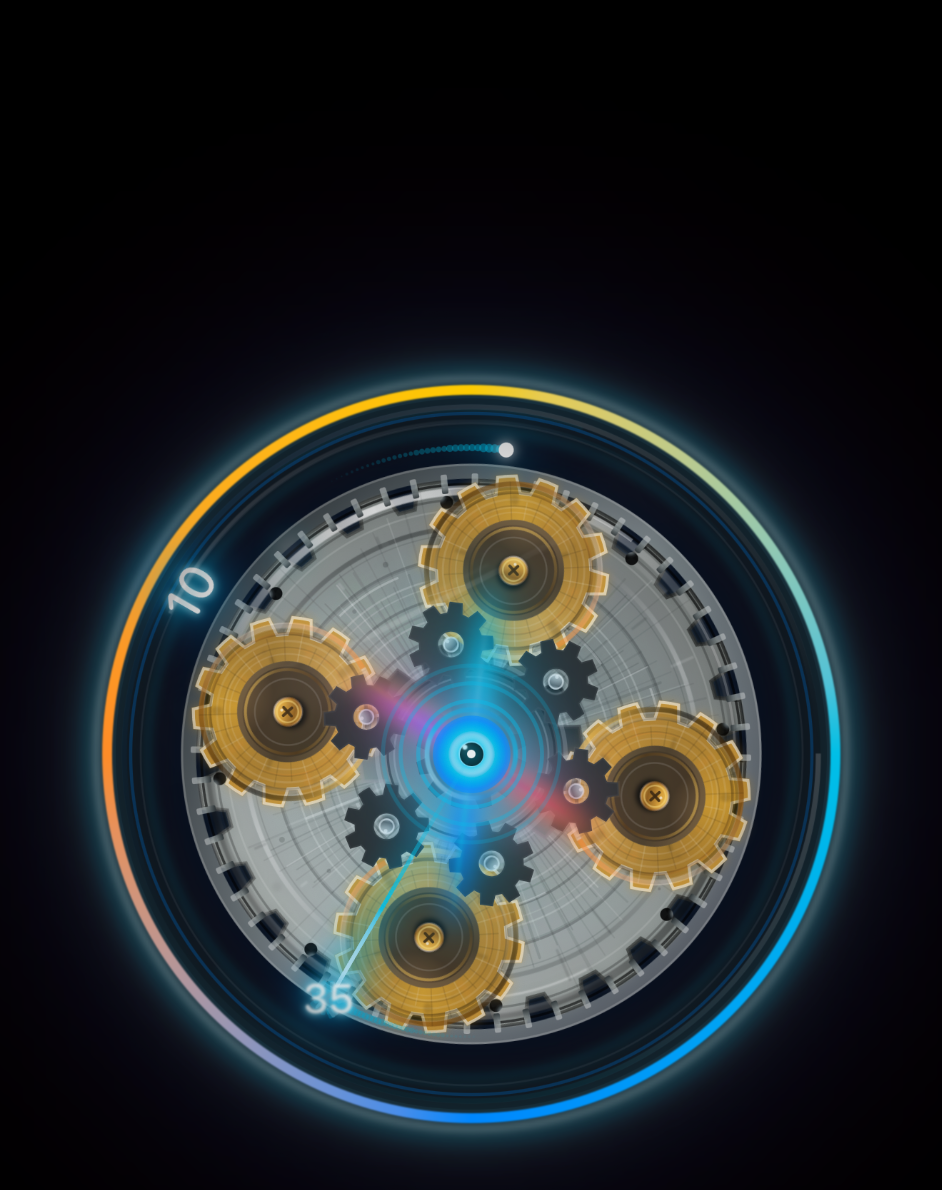
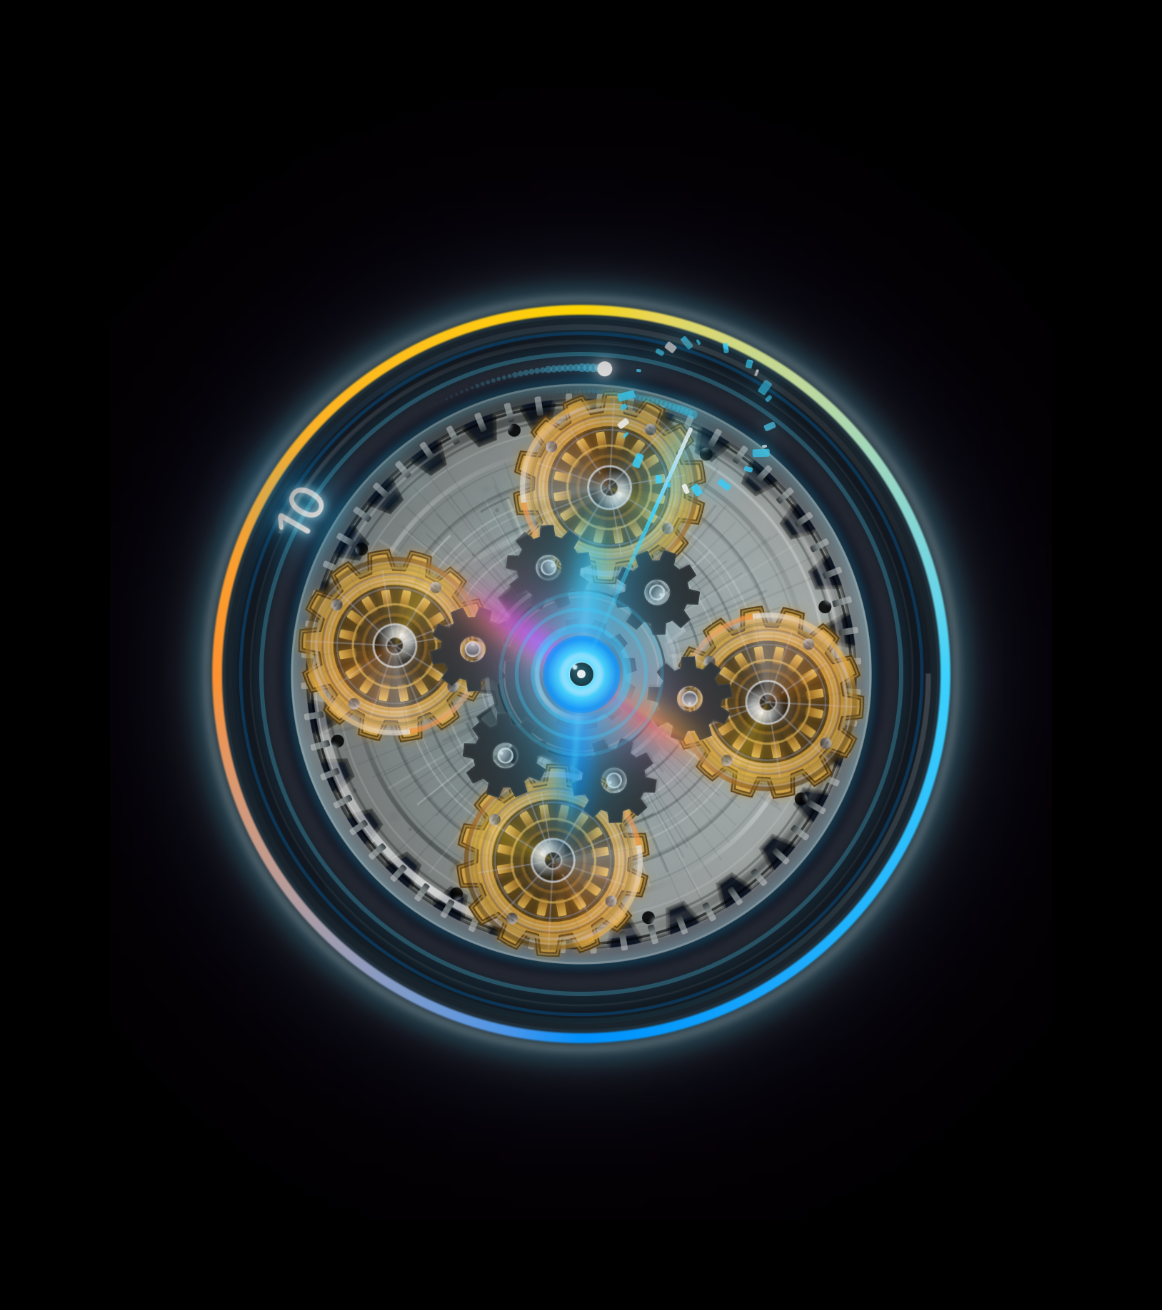
website updated
new imagery

diff --git a/index.html b/index.html
@@ -4,7 +4,7 @@
   <meta charset="utf-8">
   <meta name="viewport" content="width=device-width, initial-scale=1">
   <title>MoodClock — Time Moves the Machine</title>
-  <meta name="description" content="MoodClock is a mechanical interpretation of time. Every minute resolves through motion, pulse, and resonance.">
+  <meta name="description" content="MoodClock is a mechanical interpretation of time. Every minute resolves through motion, pulse, resonance, and a subtle mechanical voice.">
   <style>
     :root{
       --bg:#000;
@@ -31,7 +31,7 @@
       align-items:center;
       justify-content:center;
       text-align:center;
-      padding:64px 0 32px;
+      padding:80px 0 40px;
     }
     .hero-inner{width:100%}
     .eyebrow{
@@ -63,10 +63,23 @@
       font-size:18px;
       line-height:1.55;
     }
+    .hero-frame{
+      width:min(560px,76vw);
+      margin:44px auto 0;
+      border:1px solid var(--hairline);
+      border-radius:30px;
+      background:#050505;
+      padding:18px 22px 34px;
+      overflow:visible;
+      box-sizing:border-box;
+    }
     .hero-image{
       display:block;
-      width:min(760px,92vw);
-      margin:32px auto 0;
+      width:100%;
+      height:auto;
+      object-fit:contain;
+      margin:0 auto;
+      border-radius:0;
       filter:drop-shadow(0 0 24px rgba(0,190,255,.08));
     }
     section{padding:120px 0}
@@ -84,32 +97,37 @@
       font-size:20px;
       line-height:1.5;
     }
+
     .sequence{
       display:grid;
-      grid-template-columns:repeat(3,1fr);
-      gap:18px;
-      margin-top:54px;
+      grid-template-columns:repeat(4,1fr);
+      gap:16px;
+      margin-top:48px;
     }
     .sequence figure{
       margin:0;
       border:1px solid var(--hairline);
       border-radius:28px;
-      overflow:hidden;
+      overflow:visible;
       background:#050505;
     }
-    .sequence img{display:block;width:100%;height:auto}
+    .sequence img{
+      display:block;
+      width:72%;
+      max-width:220px;
+      height:auto;
+      object-fit:contain;
+      margin:18px auto 12px;
+      padding:0;
+      background:#000;
+    }
     .sequence figcaption{
       padding:18px 18px 20px;
       color:var(--muted);
       font-size:14px;
-      line-height:1.55;
       letter-spacing:.02em;
     }
-    .sequence figcaption strong{
-      color:var(--fg);
-      font-size:12px;
-      letter-spacing:.14em;
-    }
+
     .statement{
       text-align:center;
       padding-top:160px;
@@ -124,17 +142,31 @@
       font-weight:650;
     }
     .statement span{color:var(--muted)}
+
     .detail-grid{
       display:grid;
       grid-template-columns:1.1fr .9fr;
       align-items:center;
       gap:70px;
     }
-    .detail-grid img{
+    .detail-image-frame{
       width:100%;
-      display:block;
-      border-radius:30px;
       border:1px solid var(--hairline);
+      border-radius:30px;
+      background:#050505;
+      display:flex;
+      align-items:center;
+      justify-content:center;
+      overflow:visible;
+      box-sizing:border-box;
+      padding:22px;
+    }
+    .detail-image-frame img{
+      display:block;
+      width:100%;
+      height:auto;
+      object-fit:contain;
+      margin:0 auto;
     }
     .cta{
       text-align:center;
@@ -175,9 +207,14 @@
       flex-wrap:wrap;
     }
     .footer-links{display:flex;gap:18px}
+
     @media (max-width:800px){
       section{padding:88px 0}
+      .sequence{grid-template-columns:repeat(2,1fr)}
+    }
+    @media (max-width:520px){
       .sequence{grid-template-columns:1fr}
+      .sequence img{width:72%;max-width:220px;height:auto;margin-bottom:14px}
       .detail-grid{grid-template-columns:1fr;gap:36px}
       .statement{padding-top:110px;padding-bottom:110px}
     }
@@ -191,33 +228,39 @@
       <h1>MOODCLOCK</h1>
       <div class="tagline">Time moves the machine.</div>
       <p class="subcopy">
-        The minute begins at 34. Then the machine takes over.
+        A living mechanical clock where every minute resolves through motion,
+        pulse, weight, and a subtle mechanical voice.
       </p>
-      <img class="hero-image" src="moodclock-before.png" alt="MoodClock mechanical clock face">
+      <div class="hero-frame"><img class="hero-image" src="moodclock-hero.png" alt="MoodClock mechanical clock face"></div>
     </div>
   </header>
 
   <main>
     <section>
       <div class="wrap">
-        <h2 class="section-title">34 becomes 35.</h2>
+        <h2 class="section-title">Every minute has weight.</h2>
         <p class="section-copy">
-          At the turn of the minute, 34 collapses. The mechanism advances.
-          A pulse moves outward. The fragments return and reform as 35.
+          The mechanism does not simply display the next minute. It moves through it.
+          The minute collapses, the machine advances, a pulse moves outward, and the
+          clock settles into its next state.
         </p>
 
         <div class="sequence">
           <figure>
-            <img src="moodclock-fragments.png" alt="34 breaking apart as the minute changes">
-            <figcaption><strong>1 — BREAK APART</strong><br>34 collapses as the minute changes.</figcaption>
+            <img src="moodclock-final-instant.png" alt="MoodClock immediately before the minute transition">
+            <figcaption><strong>Minute 03 — The final instant.</strong></figcaption>
           </figure>
           <figure>
-            <img src="moodclock-return.png" alt="Pulse expanding as minute fragments return">
-            <figcaption><strong>2 — PULSE &amp; RETURN</strong><br>The pulse expands. The fragments return.</figcaption>
+            <img src="moodclock-pulse-travel.png" alt="MoodClock pulse wave traveling outward">
+            <figcaption>The minute breaks. The pulse launches.</figcaption>
           </figure>
           <figure>
-            <img src="moodclock-reform.png" alt="Minute fragments reforming into 35">
-            <figcaption><strong>3 — REFORM</strong><br>The new minute takes shape.</figcaption>
+            <img src="moodclock-reform.png" alt="MoodClock minute fragments in the larger fragmentation state">
+            <figcaption>The fragments spread, then begin to reform.</figcaption>
+          </figure>
+          <figure>
+            <img src="moodclock-settled.png" alt="MoodClock settled at minute 04">
+            <figcaption><strong>Minute 04 — The machine has advanced.</strong></figcaption>
           </figure>
         </div>
       </div>
@@ -232,13 +275,16 @@
       </div>
     </section>
 
+
+
     <section>
       <div class="wrap detail-grid">
-        <img src="moodclock-complete.png" alt="MoodClock resolved at minute 35">
+        <div class="detail-image-frame"><img src="moodclock-final-04.png" alt="MoodClock settled at minute 04"></div>
         <div>
-          <h2 class="section-title">35.</h2>
+          <h2 class="section-title">Machined motion. Living energy.</h2>
           <p class="section-copy">
-            The transition is complete. The machine settles. A new minute has arrived.
+            Brass, steel, light, orbit, pulse and resonance work as one system.
+            The mechanics remain crisp. The emitted energy stays atmospheric.
           </p>
         </div>
       </div>
